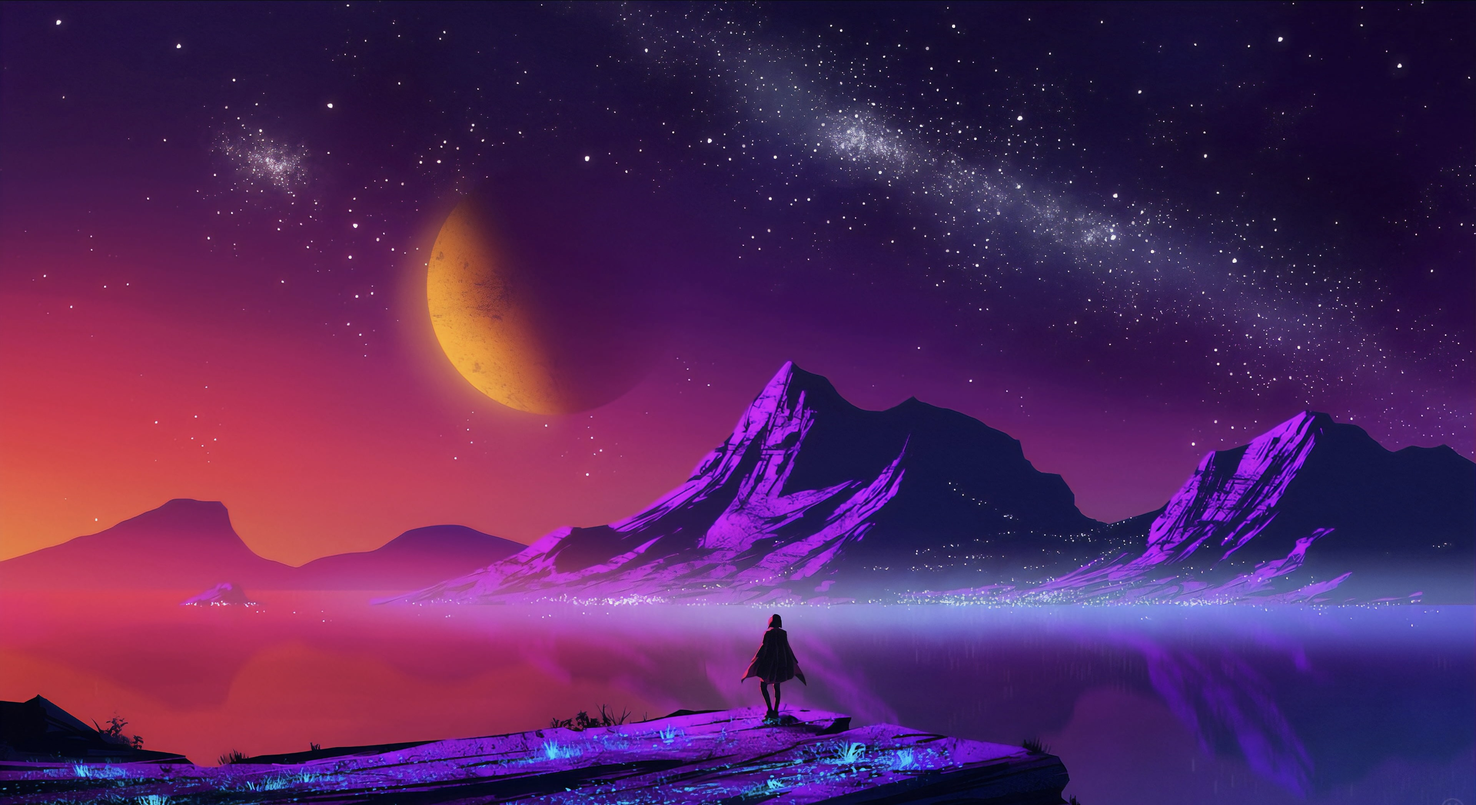
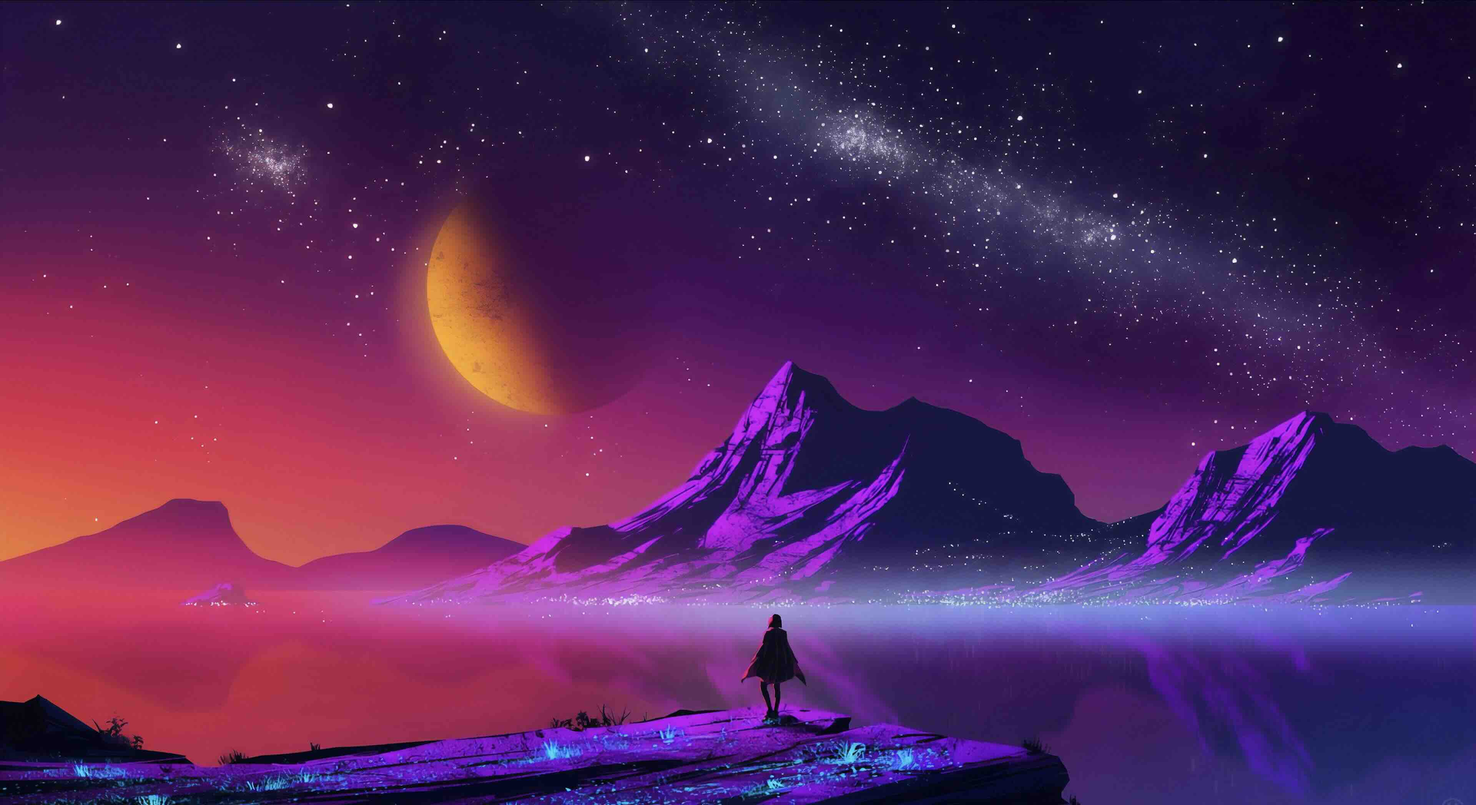
suppression du surplus et compression de certaines images

diff --git a/static/styles.css b/static/styles.css
@@ -5,7 +5,7 @@
     left: 0;
     width: 100%;
     height: 100%;
-    background-image: url("images/coucher\ soleil.jpeg");
+    background-image: url("images/coucher\ soleil.jpg");
     background-size: cover;
     background-position: center;
     background-repeat: no-repeat;

diff --git a/static/styles_pres.css b/static/styles_pres.css
@@ -103,7 +103,7 @@ html, body {
 .contact-button {
     padding: 12px 25px;
     font-size: 15px;
-    background-color: #00a5ca;
+    background-color: #00a5ca9c;
     color: rgb(255, 255, 255);
     border: none;
     border-radius: 5px;
